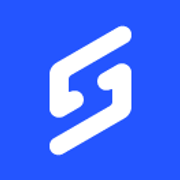
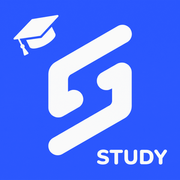
[Feature] アプリアイコンを新ロゴに差し替える (#405) (#419)
* [Feature] アプリアイコンを新ロゴに差し替える (#405)

通常版・maskable 版・小サイズ（S のみ）を用意し、マニフェストと
SW キャッシュ名（v3）・仕様書を更新する。

* [Fix] maskable アイコンの余白を通常版と同じ青にする (#405)

生成時の fill がリサイズ平均色になっていたため、#2A56FD に固定する。

* [Fix] 全アイコンを右下 STUDY 入りの通常版に揃える (#405)

タブ・サイドバー用も S のみではなく、学士帽・S・STUDY のデザインにする。

* [Feature] ログイン画面のヘッダーをアプリアイコンに差し替える (#405)

Claude-Session: https://claude.ai/code/session_01H9hwB6kpgHFimLXVZj7gBY

* [Fix] maskable アイコンを円形安全領域（直径80%）に収める (#405)

ロゴの縮小率を下げ、学士帽・STUDY が円マスクで欠けないようにする。

* [Docs] maskable アイコンの円形安全領域を仕様 14.1 に追記する (#405)

---------

diff --git a/tests/lib/pwa.test.ts b/tests/lib/pwa.test.ts
@@ -69,14 +69,30 @@ describe("インストール案内の表示条件", () => {
 });
 
 describe("manifest", () => {
-  it("any と maskable の両方を 192 / 512 で載せる", () => {
+  it("any と maskable の両方を 192 / 512 で載せる（maskable は別ファイル）", () => {
     const { icons } = manifest();
     expect(icons).toEqual(
       expect.arrayContaining([
-        expect.objectContaining({ sizes: "192x192", purpose: "any" }),
-        expect.objectContaining({ sizes: "512x512", purpose: "any" }),
-        expect.objectContaining({ sizes: "192x192", purpose: "maskable" }),
-        expect.objectContaining({ sizes: "512x512", purpose: "maskable" }),
+        expect.objectContaining({
+          src: "/icons/icon-192.png",
+          sizes: "192x192",
+          purpose: "any",
+        }),
+        expect.objectContaining({
+          src: "/icons/icon-512.png",
+          sizes: "512x512",
+          purpose: "any",
+        }),
+        expect.objectContaining({
+          src: "/icons/icon-maskable-192.png",
+          sizes: "192x192",
+          purpose: "maskable",
+        }),
+        expect.objectContaining({
+          src: "/icons/icon-maskable-512.png",
+          sizes: "512x512",
+          purpose: "maskable",
+        }),
       ])
     );
     expect(icons?.filter((icon) => icon.purpose === "any")).toHaveLength(2);
@@ -243,7 +259,7 @@ describe("public/sw.js の挙動", () => {
     expect(offline).toBeDefined();
     expect(await offline?.text()).toBe("offline-html");
     expect(offlineSw.putCalls).toEqual([]);
-    expect(await caches.keys()).toContain("sinlab-static-v2");
+    expect(await caches.keys()).toContain("sinlab-static-v3");
   });
 
   it("/api と認証 HTML 以外の経路でも navigate 以外で cache.put しない。activate は旧キャッシュを消す", async () => {
@@ -251,7 +267,7 @@ describe("public/sw.js の挙動", () => {
     const { listeners, putCalls, cacheStore, self } = loadServiceWorker({ fetchImpl });
 
     cacheStore.set("sinlab-static-v1", new Map([["/old", new Response("old")]]));
-    cacheStore.set("sinlab-static-v2", new Map());
+    cacheStore.set("sinlab-static-v3", new Map());
 
     const activateEvent: {
       waitUntil: (promise: Promise<unknown>) => void;
@@ -264,7 +280,7 @@ describe("public/sw.js の挙動", () => {
     };
     listeners.get("activate")?.(activateEvent);
     await activateEvent.done;
-    expect([...cacheStore.keys()]).toEqual(["sinlab-static-v2"]);
+    expect([...cacheStore.keys()]).toEqual(["sinlab-static-v3"]);
     expect(self.clients.claim).toHaveBeenCalledOnce();
 
     const apiEvent: {
@@ -289,7 +305,7 @@ describe("public/sw.js の挙動", () => {
     expect(source).toContain("caches.match(OFFLINE_URL)");
     expect(source).toMatch(/"install"[\s\S]*cache\.add\(OFFLINE_URL\)/);
     expect(source).toMatch(/"activate"[\s\S]*caches\.delete/);
-    expect(source).toContain("sinlab-static-v2");
+    expect(source).toContain("sinlab-static-v3");
     expect(source).not.toContain('"/api');
   });
 

diff --git a/app/(auth)/login/page.tsx b/app/(auth)/login/page.tsx
@@ -1,5 +1,5 @@
-import { BookOpen } from "lucide-react";
 import { Noto_Sans_JP } from "next/font/google";
+import Image from "next/image";
 import { TERMS_REQUIRED_ERROR_CODE } from "@/app/constants/auth";
 import { COMMERCIAL_TRANSACTIONS_URL, PRIVACY_URL, TERMS_URL } from "@/app/constants/legal";
 import { isStripeEnabled } from "@/app/constants/stripe";
@@ -52,9 +52,14 @@ export default async function LoginPage({
     >
       <div className="mx-auto grid min-h-screen w-full max-w-6xl grid-cols-1 grid-rows-[auto_auto_auto_1fr] pt-10 lg:grid-cols-[minmax(0,1fr)_400px] lg:grid-rows-[auto_auto_auto] lg:content-center lg:items-center lg:gap-x-16 lg:gap-y-7 lg:px-8 lg:py-14">
         <header className="flex flex-col items-center gap-1.5 px-4 pb-6 text-center lg:col-start-1 lg:row-start-1 lg:flex-row lg:gap-3 lg:px-0 lg:pb-0 lg:text-left">
-          <div className="flex h-12 w-12 items-center justify-center rounded-xl bg-primary text-primary-foreground lg:h-10 lg:w-10">
-            <BookOpen className="h-6 w-6" aria-hidden="true" />
-          </div>
+          <Image
+            src="/icon.png"
+            alt=""
+            width={48}
+            height={48}
+            className="h-12 w-12 rounded-xl lg:h-10 lg:w-10"
+            priority
+          />
           <h1 className="mt-1.5 text-2xl font-extrabold lg:mt-0 lg:text-xl">Sinlab Study</h1>
           <p className="text-sm text-muted-foreground">AIと学ぶ実践Web技術講座</p>
         </header>

diff --git a/app/manifest.ts b/app/manifest.ts
@@ -12,8 +12,18 @@ export default function manifest(): MetadataRoute.Manifest {
     icons: [
       { src: "/icons/icon-192.png", sizes: "192x192", type: "image/png", purpose: "any" },
       { src: "/icons/icon-512.png", sizes: "512x512", type: "image/png", purpose: "any" },
-      { src: "/icons/icon-192.png", sizes: "192x192", type: "image/png", purpose: "maskable" },
-      { src: "/icons/icon-512.png", sizes: "512x512", type: "image/png", purpose: "maskable" },
+      {
+        src: "/icons/icon-maskable-192.png",
+        sizes: "192x192",
+        type: "image/png",
+        purpose: "maskable",
+      },
+      {
+        src: "/icons/icon-maskable-512.png",
+        sizes: "512x512",
+        type: "image/png",
+        purpose: "maskable",
+      },
     ],
   };
 }

diff --git a/public/sw.js b/public/sw.js
@@ -6,7 +6,7 @@
  * Bump STATIC_CACHE when offline HTML or caching rules change so activate drops old entries.
  * Push payloads are title/body/url only; the click opens a page through the same
  * network-first navigate handler. */
-const STATIC_CACHE = "sinlab-static-v2";
+const STATIC_CACHE = "sinlab-static-v3";
 const OFFLINE_URL = "/offline";
 
 self.addEventListener("install", (event) => {

diff --git a/docs/specification.md b/docs/specification.md
@@ -1588,9 +1588,9 @@ X 向けの共有リンク（`https://twitter.com/intent/tweet?text=...&url=...`
 
 ### 14.1 マニフェスト・サービスワーカー・インストール案内
 
-- **マニフェスト**（`app/manifest.ts`）: `name` / `short_name` は Sinlab Study、`start_url` は `/`、`display` は `standalone`。`theme_color` / `background_color` は `app/constants/pwa.ts` の sRGB（`globals.css` の oklch トークンの代替。マニフェストは oklch を受けない）。アイコンは 192px・512px を `purpose: any` と `purpose: maskable` の両方で載せる（`maskable` だけだと Chrome がインストール可能と判定しない）。`app/apple-icon.png`（180px）と `metadata.appleWebApp`、`viewport.themeColor`（ライト・ダーク）を付ける
-- **アイコン**: 元画像が無い間は `public/icon.png` から拡大した仮画像。差し替え前提
-- **サービスワーカー**（`public/sw.js`）: `/_next/static/*` は cache-first。アイコン（`/icon.png`・`/apple-icon.png`・`/icons/`）は URL にハッシュが無い仮画像なので network-first（成功時にキャッシュを更新し、オフライン時だけキャッシュを使う）。`/offline` は install でキャッシュする。キャッシュ名（`STATIC_CACHE`）はバージョン付きで、ルールやオフライン HTML を変えたらバンプする。`activate` でそれ以外の名前のキャッシュを削除する。ナビゲーションは常にネットワーク優先で、失敗時だけそのキャッシュ（「オフラインです」）を返す。認証配下の HTML と `/api/*` はキャッシュしない（降格・却下・ロックの反映が遅れないようにする）。`next.config.ts` の `headers()` で `/sw.js` に `Cache-Control: no-cache` と `Service-Worker-Allowed: /` を付ける。登録は `ServiceWorkerRegistration` が本番ビルドだけで行う
+- **マニフェスト**（`app/manifest.ts`）: `name` / `short_name` は Sinlab Study、`start_url` は `/`、`display` は `standalone`。`theme_color` / `background_color` は `app/constants/pwa.ts` の sRGB（`globals.css` の oklch トークンの代替。マニフェストは oklch を受けない）。アイコンは 192px・512px を `purpose: any`（`/icons/icon-*.png`）と `purpose: maskable`（`/icons/icon-maskable-*.png`。余白つき別ファイル）の両方で載せる（`maskable` だけだと Chrome がインストール可能と判定しない）。`app/apple-icon.png`（180px）と `metadata.appleWebApp`、`viewport.themeColor`（ライト・ダーク）を付ける
+- **アイコン**（#405）: 青地（`#2A56FD`）に白いロゴ（学士帽・S・右下に STUDY）。全サイズで同じデザインを使う。(1) 通常版 → `public/icons/icon-192.png` / `icon-512.png`（PWA `any`・Web Push）、`app/apple-icon.png`（180px）、`app/icon.png` / `public/icon.png`（132px。タブ・サイドバー・`/demo`・ログイン画面のヘッダー）。(2) maskable 版（同じロゴを中央に縮小し、余白も同色。ロゴは中央・直径 80% の円形安全領域に収める）→ `icon-maskable-192.png` / `icon-maskable-512.png`
+- **サービスワーカー**（`public/sw.js`）: `/_next/static/*` は cache-first。アイコン（`/icon.png`・`/apple-icon.png`・`/icons/`）は URL にハッシュが無いので network-first（成功時にキャッシュを更新し、オフライン時だけキャッシュを使う）。`/offline` は install でキャッシュする。キャッシュ名（`STATIC_CACHE`）はバージョン付きで、ルール・オフライン HTML・アイコン差し替え時にバンプする。`activate` でそれ以外の名前のキャッシュを削除する。ナビゲーションは常にネットワーク優先で、失敗時だけそのキャッシュ（「オフラインです」）を返す。認証配下の HTML と `/api/*` はキャッシュしない（降格・却下・ロックの反映が遅れないようにする）。`next.config.ts` の `headers()` で `/sw.js` に `Cache-Control: no-cache` と `Service-Worker-Allowed: /` を付ける。登録は `ServiceWorkerRegistration` が本番ビルドだけで行う
 - **プロキシ**: `shouldSkipMiddleware()` は上の 4 パスを完全一致でのみ通す。`/offline/anything` のような配下は通さない。うち `/manifest.webmanifest`・`/sw.js`・`/apple-icon.png` は拡張子マッチでも通るが、インストールに必要なパスの許可リストとして明示する（増やさない）。環境変数欠落・例外・status null の `/login` へのフェイルクローズは変えない
 - **インストール案内**: ホーム（`/`）の `InstallPrompt`。`display-mode: standalone` でも `navigator.standalone` でもない、かつモバイル UA（iPadOS 13+ の Macintosh + タッチを含む）、かつ閉じていない（`localStorage`。失敗は無視）ときだけ出す。`beforeinstallprompt` はルート layout のクライアントモジュールで先行捕捉し、`/` 以外で発火してもホームで使える。iOS は「共有 → ホーム画面に追加」の手順。Android はイベントがあるときボタンで `prompt()` を呼び、無いときはブラウザメニューからの追加手順を出す。`prompt()` の拒否や OS ダイアログのキャンセルでは閉じた扱いにしない。インストール済みでは出さない
 
